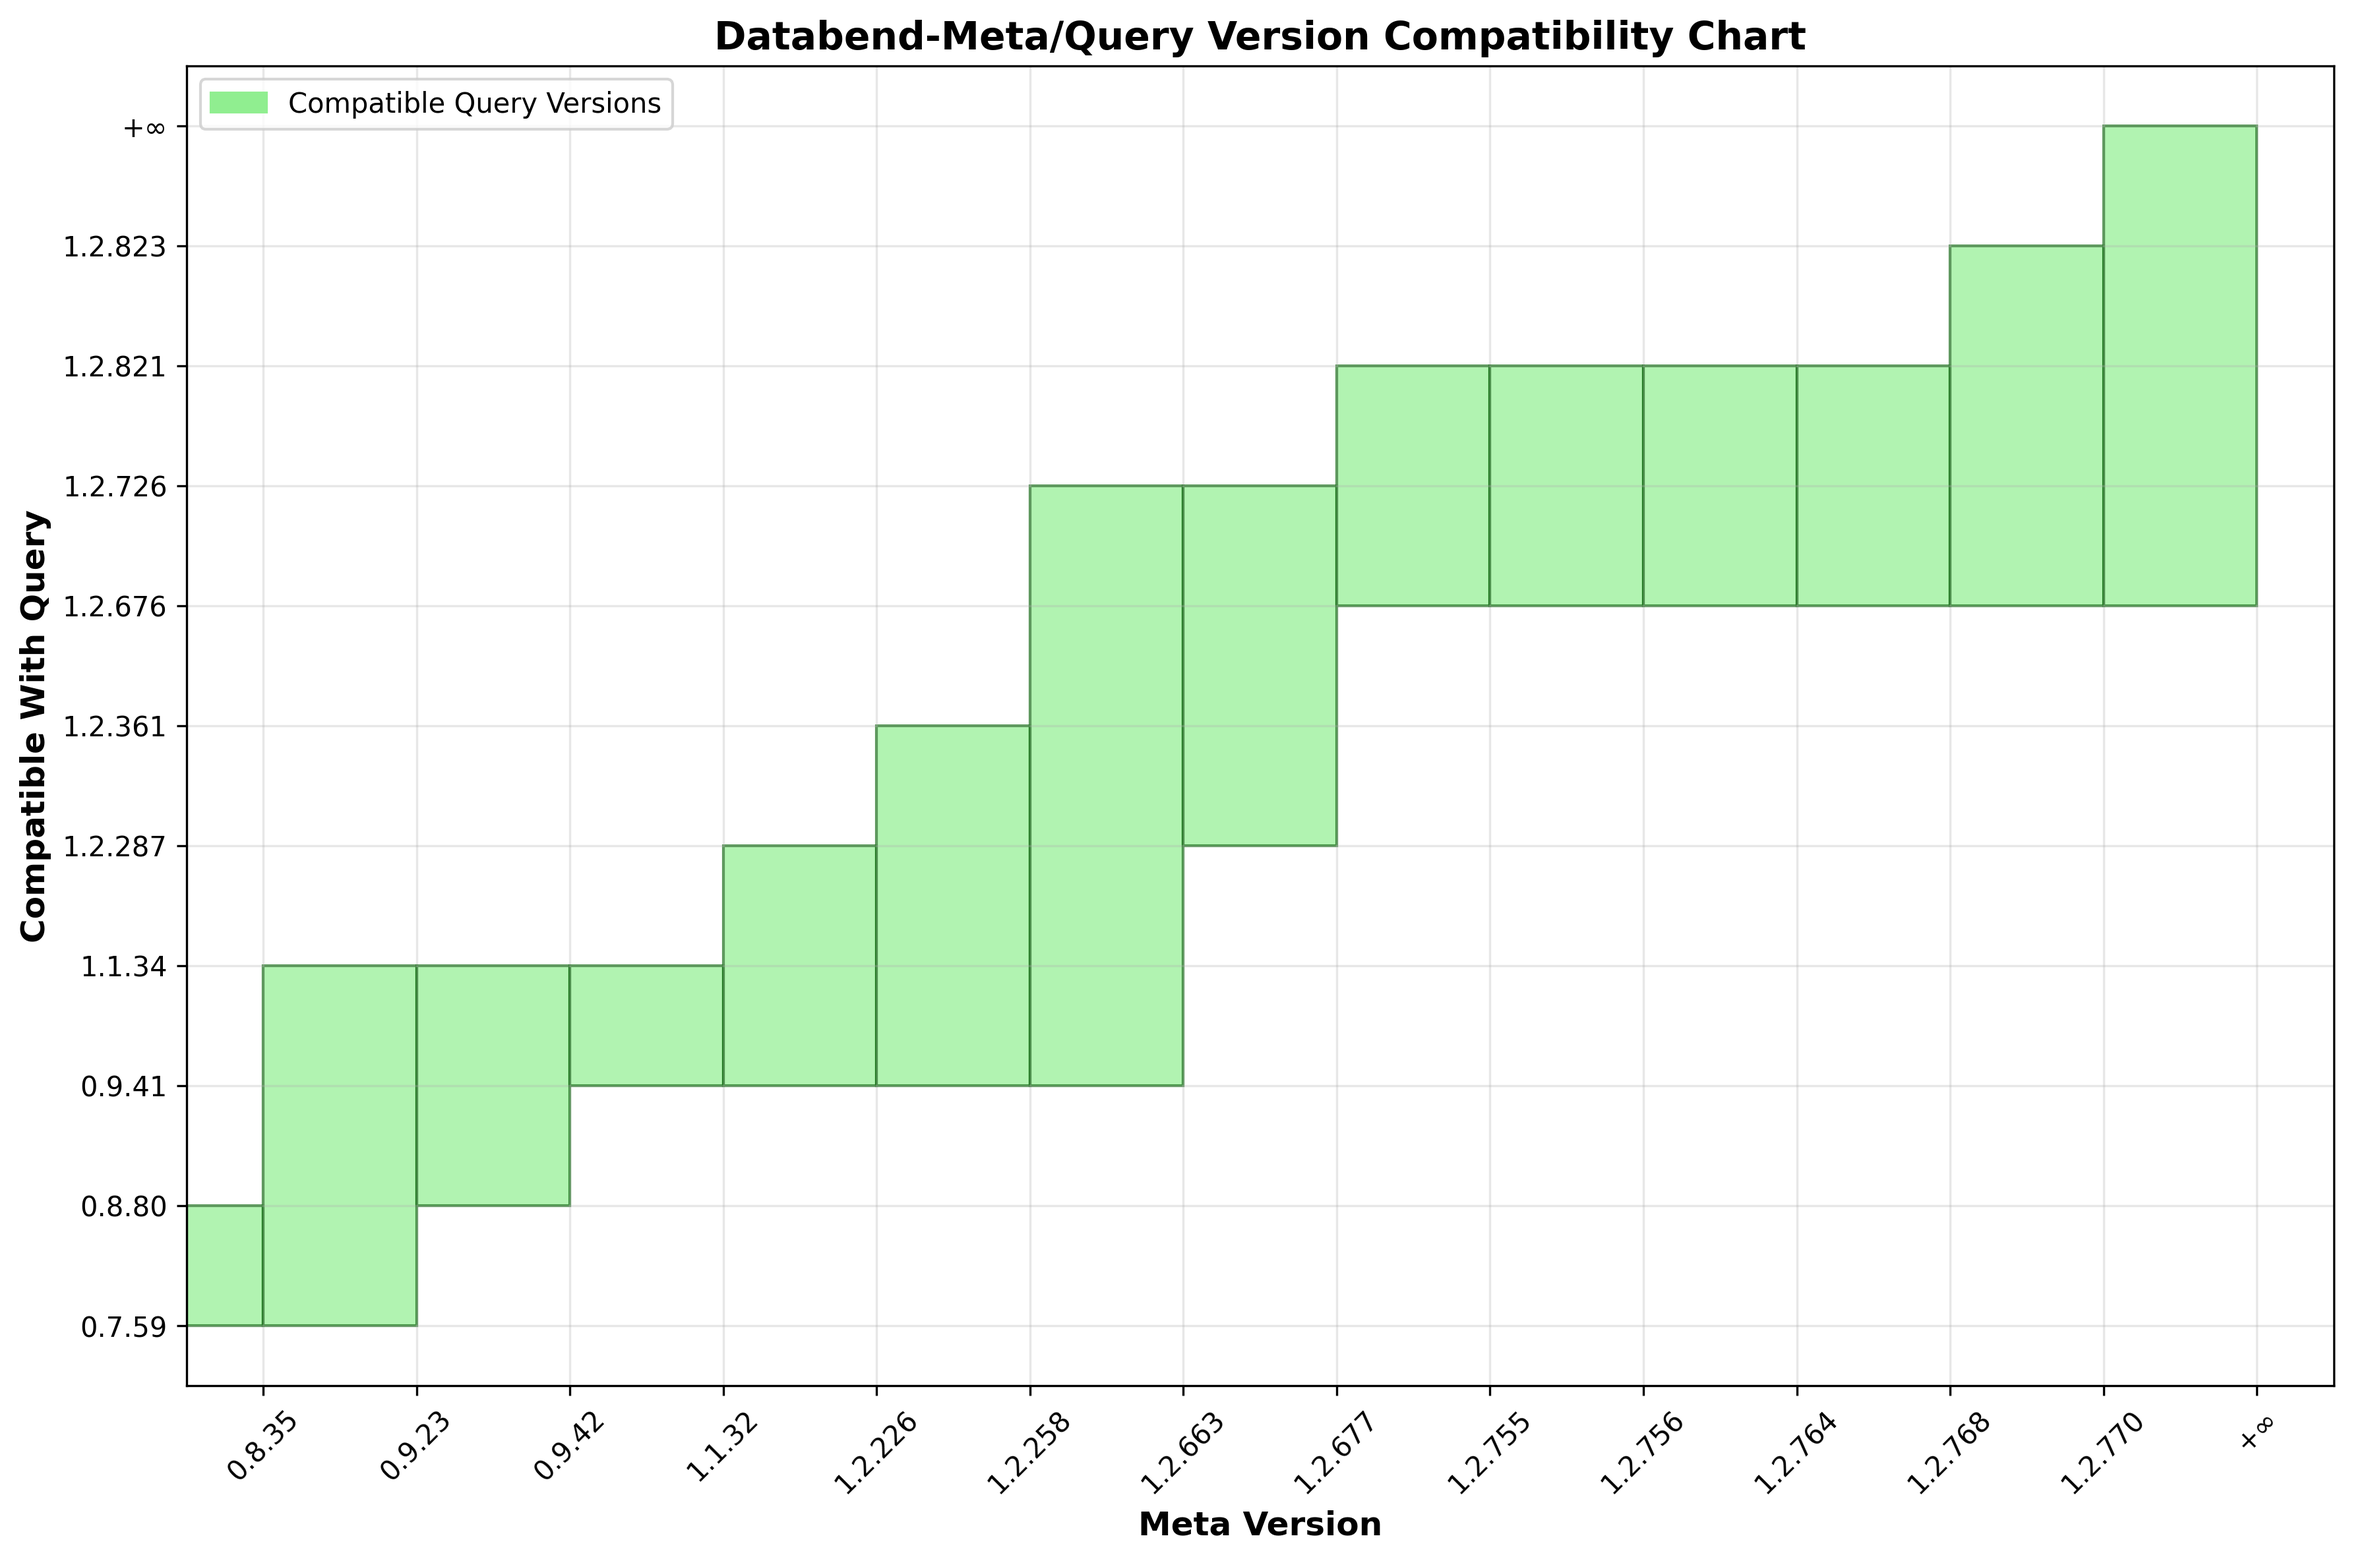
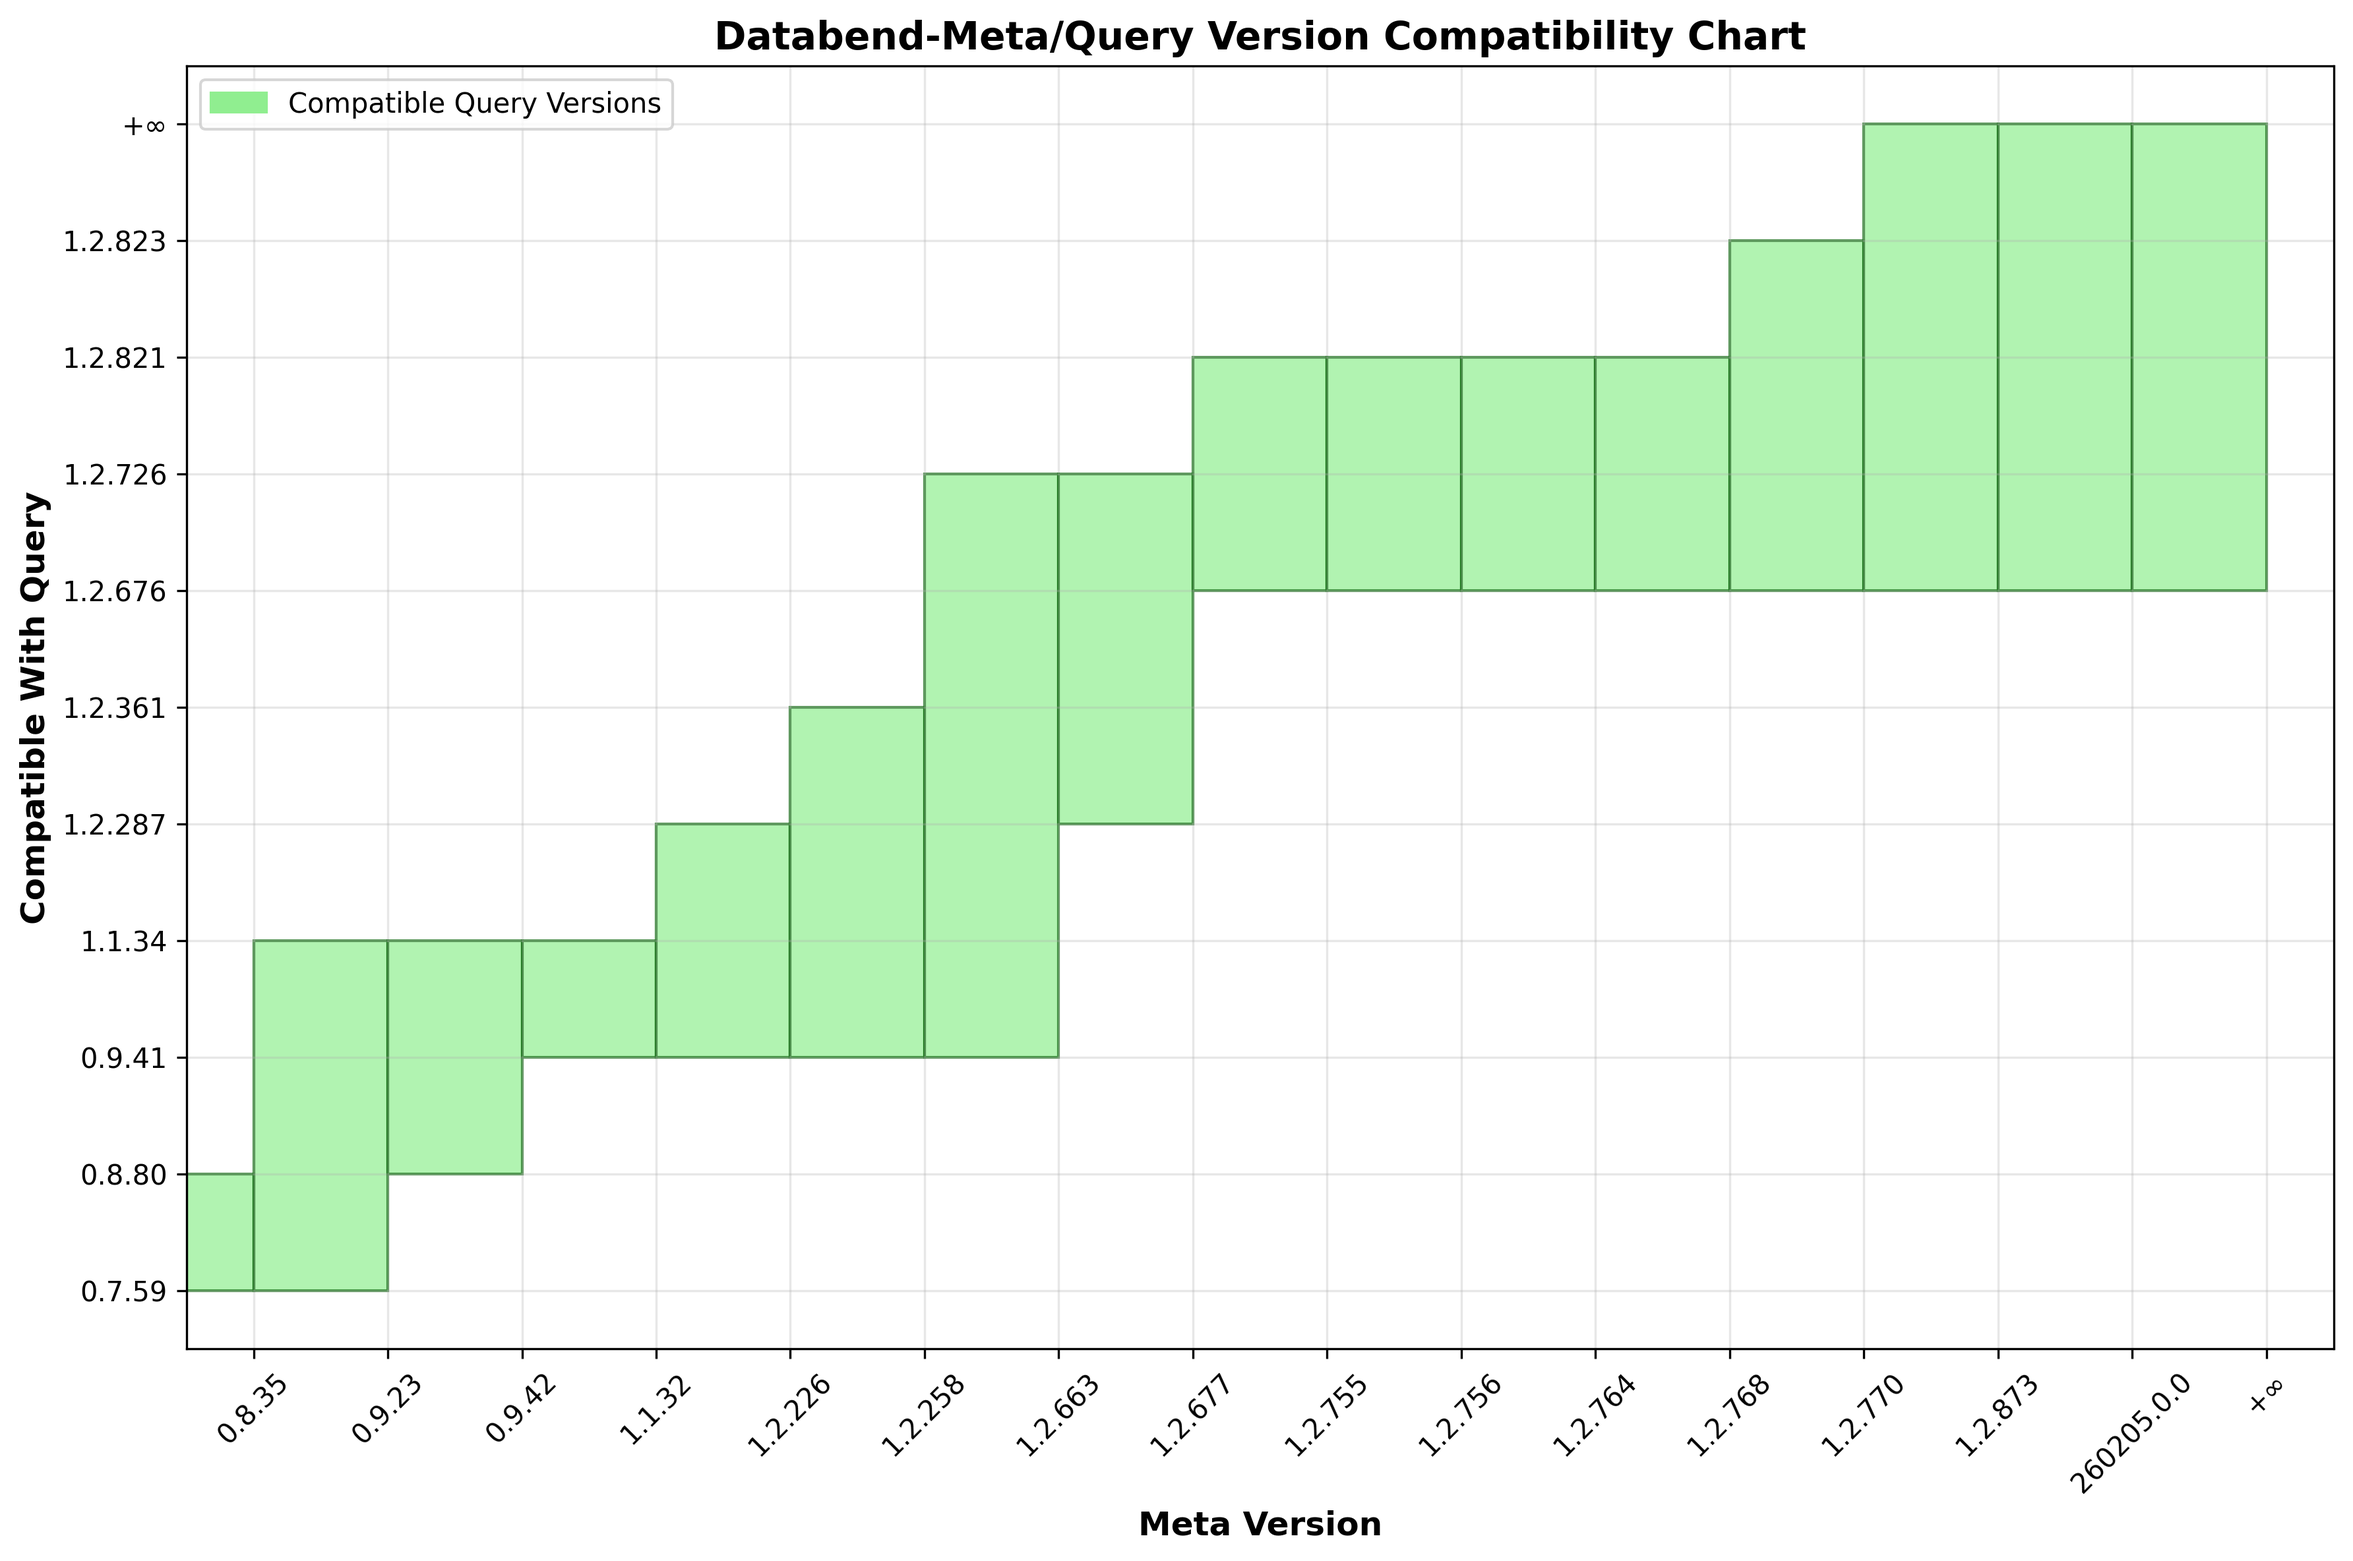
docs: add missing doc comments to public methods
Public methods on `FeatureSpan` and `Version` lacked documentation.

diff --git a/docs/compat.py b/docs/compat.py
@@ -4,23 +4,24 @@ import matplotlib.patches as patches
 
 meta_to_query_compat = [
     # upto meta version(exclusive) : compatible query version [from, to) (left closed, right open)
-    "0.0.0     0.0.0   0.0.0   ",
-    "0.8.30    0.0.0   0.0.0   ",
-    "0.8.35    0.7.59  0.8.80  ",
-    "0.9.23    0.7.59  1.1.34  ",
-    "0.9.42    0.8.80  1.1.34  ",
-    "1.1.32    0.9.41  1.1.34  ",
-    "1.2.226   0.9.41  1.2.287 ",
-    "1.2.258   0.9.41  1.2.361 ",
-    "1.2.663   0.9.41  1.2.726 ",
-    "1.2.677   1.2.287 1.2.726 ",
-    "1.2.755   1.2.676 1.2.821 ",
-    "1.2.756   1.2.676 1.2.821 ",
-    "1.2.764   1.2.676 1.2.821 ",
-    "1.2.768   1.2.676 1.2.821 ",
-    "1.2.770   1.2.676 1.2.823 ",
-    "1.2.873   1.2.676 ∞       ", # 1.2.873: moved meta to separate repo
-    "∞         1.2.676 ∞       ",
+    "0.0.0        0.0.0   0.0.0   ",
+    "0.8.30       0.0.0   0.0.0   ",
+    "0.8.35       0.7.59  0.8.80  ",
+    "0.9.23       0.7.59  1.1.34  ",
+    "0.9.42       0.8.80  1.1.34  ",
+    "1.1.32       0.9.41  1.1.34  ",
+    "1.2.226      0.9.41  1.2.287 ",
+    "1.2.258      0.9.41  1.2.361 ",
+    "1.2.663      0.9.41  1.2.726 ",
+    "1.2.677      1.2.287 1.2.726 ",
+    "1.2.755      1.2.676 1.2.821 ",
+    "1.2.756      1.2.676 1.2.821 ",
+    "1.2.764      1.2.676 1.2.821 ",
+    "1.2.768      1.2.676 1.2.821 ",
+    "1.2.770      1.2.676 1.2.823 ",
+    "1.2.873      1.2.676 ∞       ", # 1.2.873: moved meta to separate repo
+    "260205.0.0   1.2.676 ∞       ",
+    "∞            1.2.676 ∞       ",
 ]
 
 
@@ -48,7 +49,7 @@ def draw_meta_to_query_compat(output_file: str):
     # Sort versions and create position mappings
     def version_key(v):
         if v == "∞":
-            return (999, 999, 999)
+            return (999999, 999, 999)
         ver = semantic_version.Version(v)
         return (ver.major, ver.minor, ver.patch)
 

diff --git a/crates/version/src/version.rs b/crates/version/src/version.rs
@@ -38,10 +38,12 @@ impl Version {
         }
     }
 
+    /// Encodes the version as a single integer: `major * 1_000_000 + minor * 1_000 + patch`.
     pub const fn to_digit(&self) -> u64 {
         self.major * 1_000_000 + self.minor * 1_000 + self.patch
     }
 
+    /// Decodes a version from a single integer produced by [`to_digit()`](Self::to_digit).
     pub const fn from_digit(u: u64) -> Self {
         Version {
             major: u / 1_000_000,
@@ -50,6 +52,7 @@ impl Version {
         }
     }
 
+    /// Converts to a `semver::Version`.
     pub const fn to_semver(&self) -> semver::Version {
         semver::Version::new(self.major, self.minor, self.patch)
     }

diff --git a/crates/version/src/feature_span.rs b/crates/version/src/feature_span.rs
@@ -39,11 +39,13 @@ impl FeatureSpan {
         }
     }
 
+    /// Sets the exclusive end version, returning the modified span.
     pub const fn until(mut self, until: Version) -> Self {
         self.until = until;
         self
     }
 
+    /// Sets the exclusive end version from individual components.
     pub const fn until3(self, until_major: u64, until_minor: u64, until_patch: u64) -> Self {
         self.until(Version::new(until_major, until_minor, until_patch))
     }

diff --git a/crates/version/src/compatibility_algorithm.md b/crates/version/src/compatibility_algorithm.md
@@ -167,7 +167,7 @@ For a hypothetical client version 1.2.800 with only these features:
 
 Result: `max(1.2.163, 1.2.258, 1.2.677)` = **1.2.677**
 
-*Note: The actual computed value includes all features. At version 1.2.873,
+*Note: The actual computed value includes all features. At version 260205.0.0,
 `min_compatible_server_version()` returns 1.2.770 due to features like
 `ExpireInMillis` and `PutSequential` which the client requires and server
 provides starting from that version.*
@@ -199,14 +199,14 @@ return min_client
 | KvApiGetKv   | [1.2.163, 1.2.663)   | [1.2.163, 1.2.287)   |
 | TxnReplyErr  | [1.2.258, 1.2.755)   | [1.2.258, 1.2.676)   |
 
-For server version 1.2.873:
+For server version 260205.0.0:
 - Server removed KvApiGetKv (at 1.2.663) → client must have stopped requiring it
 - Client stopped at 1.2.287, so clients ≥ 1.2.287 are compatible
 - Server removed TxnReplyErr (at 1.2.755) → client must have stopped at 1.2.676
 
 Result: `max(1.2.287, 1.2.676)` = **1.2.676**
 
-*At version 1.2.873, `min_compatible_client_version()` returns exactly 1.2.676,
+*At version 260205.0.0, `min_compatible_client_version()` returns exactly 1.2.676,
 matching this example since these are the only features removed by that version.*
 
 ## Usage
